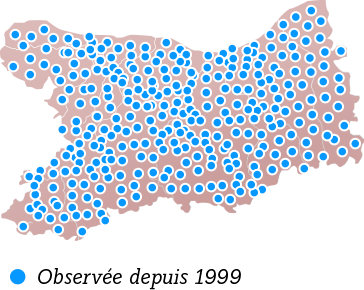
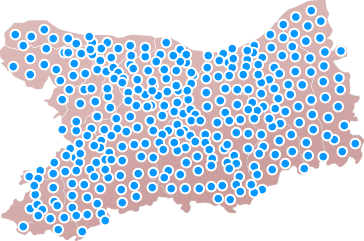
Feature: integration of map + exergue in texts

diff --git a/vire-normandie/dist/index.html b/vire-normandie/dist/index.html
@@ -39,8 +39,15 @@
                     </p>
                 </div>
                 <div class="popup__images">
-                    <img src="images/orchidee-map.png" alt="">
-                    <img src="images/orchidee-exergue.png" alt="">
+                    <div class="popup__map">
+                        <img src="images/orchidee-map.png" alt="">
+                        <p><span class="popup__mapPoint -blue"></span>Observée depuis 1999</p>
+                        <p><span class="popup__mapPoint -brown"></span>Observée avant 1999</p>
+                    </div>
+                    <div class="popup__exergue">
+                        <img src="images/danger.png" alt="">
+                        <p>Plante en danger<br>critique d’extinction</p>
+                    </div>
                 </div>
                 <div class="popup__back">
                     <img src="images/arrow-left.png" alt="">
@@ -73,8 +80,15 @@
                     </p>
                 </div>
                 <div class="popup__images">
-                    <img src="images/rhinanthe-map.png" alt="">
-                    <img src="images/rhinanthe-exergue.png" alt="">
+                    <div class="popup__map">
+                        <img src="images/rhinanthe-map.png" alt="">
+                        <p><span class="popup__mapPoint -blue"></span>Observée depuis 1999</p>
+                        <p><span class="popup__mapPoint -brown"></span>Observée avant 1999</p>
+                    </div>
+                    <div class="popup__exergue">
+                        <img src="images/warning.png" alt="">
+                        <p>Plante vulnérable,<br>à surveiller</p>
+                    </div>
                 </div>
                 <div class="popup__back">
                     <img src="images/arrow-left.png" alt="">
@@ -107,8 +121,15 @@
                     </p>
                 </div>
                 <div class="popup__images">
-                    <img src="images/violette-map.png" alt="">
-                    <img src="images/violette-exergue.png" alt="">
+                    <div class="popup__map">
+                        <img src="images/violette-map.png" alt="">
+                        <p><span class="popup__mapPoint -blue"></span>Observée depuis 1999</p>
+                        <p><span class="popup__mapPoint -brown"></span>Observée avant 1999</p>
+                    </div>
+                    <div class="popup__exergue">
+                        <img src="images/danger.png" alt="">
+                        <p>Plante en danger<br>critique d’extinction</p>
+                    </div>
                 </div>
                 <div class="popup__back">
                     <img src="images/arrow-left.png" alt="">
@@ -142,12 +163,18 @@
                 </p>
                 </div>
                 <div class="popup__images">
-                <img src="images/robert-map.png" alt="">
-                <img src="images/robert-exergue.png" alt="">
+                    <div class="popup__map">
+                        <img src="images/robert-map.png" alt="">
+                        <p><span class="popup__mapPoint -blue"></span>Observée depuis 1999</p>
+                    </div>
+                    <div class="popup__exergue">
+                        <img src="images/good.png" alt="">
+                        <p>Plante non menacée,<br>non protégée</p>
+                    </div>
                 </div>
                 <div class="popup__back">
-                <img src="images/arrow-left.png" alt="">
-                Retour
+                    <img src="images/arrow-left.png" alt="">
+                    Retour
                 </div>
             </div>
         </div>

diff --git a/vire-normandie/index.html b/vire-normandie/index.html
@@ -39,8 +39,15 @@
                     </p>
                 </div>
                 <div class="popup__images">
-                    <img src="images/orchidee-map.png" alt="">
-                    <img src="images/orchidee-exergue.png" alt="">
+                    <div class="popup__map">
+                        <img src="images/orchidee-map.png" alt="">
+                        <p><span class="popup__mapPoint -blue"></span>Observée depuis 1999</p>
+                        <p><span class="popup__mapPoint -brown"></span>Observée avant 1999</p>
+                    </div>
+                    <div class="popup__exergue">
+                        <img src="images/danger.png" alt="">
+                        <p>Plante en danger<br>critique d’extinction</p>
+                    </div>
                 </div>
                 <div class="popup__back">
                     <img src="images/arrow-left.png" alt="">
@@ -73,8 +80,15 @@
                     </p>
                 </div>
                 <div class="popup__images">
-                    <img src="images/rhinanthe-map.png" alt="">
-                    <img src="images/rhinanthe-exergue.png" alt="">
+                    <div class="popup__map">
+                        <img src="images/rhinanthe-map.png" alt="">
+                        <p><span class="popup__mapPoint -blue"></span>Observée depuis 1999</p>
+                        <p><span class="popup__mapPoint -brown"></span>Observée avant 1999</p>
+                    </div>
+                    <div class="popup__exergue">
+                        <img src="images/warning.png" alt="">
+                        <p>Plante vulnérable,<br>à surveiller</p>
+                    </div>
                 </div>
                 <div class="popup__back">
                     <img src="images/arrow-left.png" alt="">
@@ -107,8 +121,15 @@
                     </p>
                 </div>
                 <div class="popup__images">
-                    <img src="images/violette-map.png" alt="">
-                    <img src="images/violette-exergue.png" alt="">
+                    <div class="popup__map">
+                        <img src="images/violette-map.png" alt="">
+                        <p><span class="popup__mapPoint -blue"></span>Observée depuis 1999</p>
+                        <p><span class="popup__mapPoint -brown"></span>Observée avant 1999</p>
+                    </div>
+                    <div class="popup__exergue">
+                        <img src="images/danger.png" alt="">
+                        <p>Plante en danger<br>critique d’extinction</p>
+                    </div>
                 </div>
                 <div class="popup__back">
                     <img src="images/arrow-left.png" alt="">
@@ -142,12 +163,18 @@
                 </p>
                 </div>
                 <div class="popup__images">
-                <img src="images/robert-map.png" alt="">
-                <img src="images/robert-exergue.png" alt="">
+                    <div class="popup__map">
+                        <img src="images/robert-map.png" alt="">
+                        <p><span class="popup__mapPoint -blue"></span>Observée depuis 1999</p>
+                    </div>
+                    <div class="popup__exergue">
+                        <img src="images/good.png" alt="">
+                        <p>Plante non menacée,<br>non protégée</p>
+                    </div>
                 </div>
                 <div class="popup__back">
-                <img src="images/arrow-left.png" alt="">
-                Retour
+                    <img src="images/arrow-left.png" alt="">
+                    Retour
                 </div>
             </div>
         </div>

diff --git a/vire-normandie/dist/css/index.css b/vire-normandie/dist/css/index.css
@@ -338,13 +338,45 @@ video {
   display: flex;
   align-items: center;
   margin-top: 8%; }
-  .popup__images img {
-    margin-right: 6%; }
+
+.popup__map {
+  margin-right: 50px;
+  font-size: 21px;
+  font-style: italic; }
+  .popup__map img {
+    margin-bottom: 18px; }
+  .popup__map p {
+    margin-bottom: 12px; }
+
+.popup__mapPoint {
+  display: inline-block;
+  margin-right: 15px;
+  width: 15px;
+  height: 15px;
+  border-radius: 100%; }
+  .popup__mapPoint.-blue {
+    background: #0680ff; }
+  .popup__mapPoint.-brown {
+    background: #d3705e; }
+
+.popup__exergue {
+  display: flex;
+  align-items: center;
+  margin-top: -50px;
+  width: 325px;
+  font-family: "LeanO FY";
+  font-size: 26px;
+  font-style: italic;
+  font-weight: bold; }
+  .popup__exergue img {
+    margin-right: 15px; }
 
 .popup__back {
+  position: absolute;
+  right: 5%;
+  bottom: 7%;
   display: flex;
   padding: 15px 25px;
-  margin-left: auto;
   width: 225px;
   font-family: "LeanO FY";
   font-size: 38px;

diff --git a/vire-normandie/src/assets/scss/_popup.scss b/vire-normandie/src/assets/scss/_popup.scss
@@ -57,16 +57,59 @@
   display: flex;
   align-items: center;
   margin-top: 8%;
+}
+
+.popup__map {
+  margin-right: 50px;
+  font-size: 21px;
+  font-style: italic;
 
   img {
-    margin-right: 6%;
+    margin-bottom: 18px;
+  }
+
+  p {
+    margin-bottom: 12px;
+  }
+}
+
+.popup__mapPoint {
+  display: inline-block;
+  margin-right: 15px;
+  width: 15px;
+  height: 15px;
+  border-radius: 100%;
+
+  &.-blue {
+    background: #0680ff;
+  }
+
+  &.-brown {
+    background: #d3705e;
+  }
+}
+
+.popup__exergue {
+  display: flex;
+  align-items: center;
+  margin-top: -50px;
+  width: 325px;
+  font-family: $font;
+  font-size: 26px;
+  font-style: italic;
+  font-weight: bold;
+
+  img {
+    margin-right: 15px;
   }
 }
 
 .popup__back {
+  position: absolute;
+  right: 5%;
+  bottom: 7%;
   display: flex;
   padding: 15px 25px;
-  margin-left: auto;
   width: 225px;
   font-family: $font;
   font-size: 38px;
